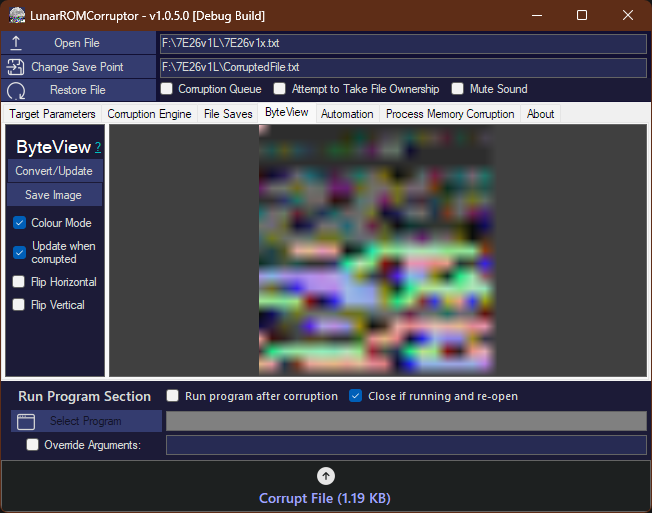
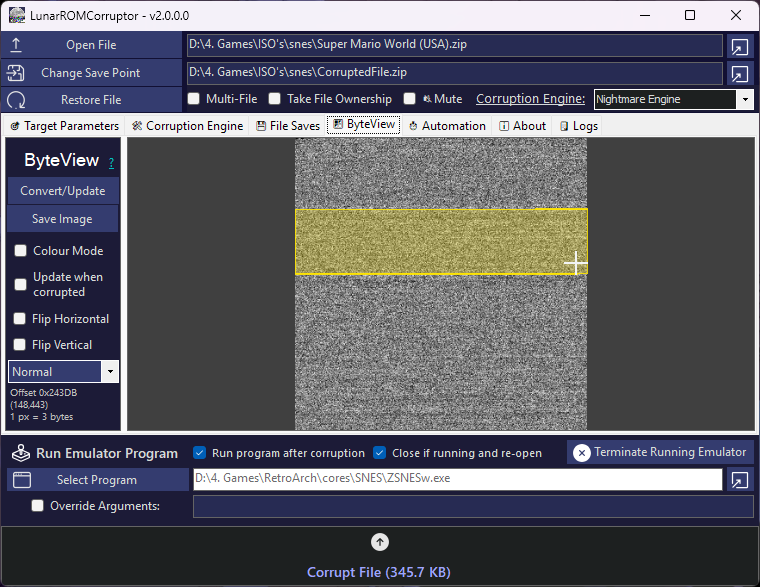
Updated Readme. One more time
Updated images.

diff --git a/LunarROMCorruptor/Forms/MainCorruptionForm.Designer.cs b/LunarROMCorruptor/Forms/MainCorruptionForm.Designer.cs
@@ -90,9 +90,9 @@
             ByteViewHelp = new LinkLabel();
             byteViewColourChkbox = new CheckBox();
             ByteViewLbl = new Label();
-            ByteViewPictureBox = new PictureBox();
             ByteViewModeComboBox = new ComboBox();
             ByteViewInfoLbl = new Label();
+            ByteViewPictureBox = new PictureBox();
             AutomationPage = new TabPage();
             AutomationLbl = new Label();
             AutoCorruptPanel = new Panel();
@@ -786,21 +786,6 @@
             IntensityTrackbar.Value = 1;
             IntensityTrackbar.Scroll += IntensityTrackbar_Scroll;
             // 
-            // CorruptionHistoryBtn
-            // 
-            CorruptionHistoryBtn.Anchor = AnchorStyles.Bottom | AnchorStyles.Left;
-            CorruptionHistoryBtn.BackColor = Color.FromArgb(52, 60, 111);
-            CorruptionHistoryBtn.FlatAppearance.BorderSize = 0;
-            CorruptionHistoryBtn.FlatStyle = FlatStyle.Flat;
-            CorruptionHistoryBtn.ForeColor = Color.FromArgb(213, 216, 216);
-            CorruptionHistoryBtn.Location = new Point(384, 257);
-            CorruptionHistoryBtn.Margin = new Padding(2, 3, 2, 3);
-            CorruptionHistoryBtn.Name = "CorruptionHistoryBtn";
-            CorruptionHistoryBtn.Size = new Size(134, 27);
-            CorruptionHistoryBtn.TabIndex = 180;
-            CorruptionHistoryBtn.Text = "Corruption History ▾";
-            CorruptionHistoryBtn.UseVisualStyleBackColor = false;
-            // 
             // StashBytesList
             // 
             StashBytesList.Anchor = AnchorStyles.Top | AnchorStyles.Bottom | AnchorStyles.Left;
@@ -816,6 +801,21 @@
             StashBytesList.Name = "StashBytesList";
             StashBytesList.Size = new Size(134, 229);
             StashBytesList.TabIndex = 158;
+            // 
+            // CorruptionHistoryBtn
+            // 
+            CorruptionHistoryBtn.Anchor = AnchorStyles.Bottom | AnchorStyles.Left;
+            CorruptionHistoryBtn.BackColor = Color.FromArgb(52, 60, 111);
+            CorruptionHistoryBtn.FlatAppearance.BorderSize = 0;
+            CorruptionHistoryBtn.FlatStyle = FlatStyle.Flat;
+            CorruptionHistoryBtn.ForeColor = Color.FromArgb(213, 216, 216);
+            CorruptionHistoryBtn.Location = new Point(384, 257);
+            CorruptionHistoryBtn.Margin = new Padding(2, 3, 2, 3);
+            CorruptionHistoryBtn.Name = "CorruptionHistoryBtn";
+            CorruptionHistoryBtn.Size = new Size(134, 27);
+            CorruptionHistoryBtn.TabIndex = 180;
+            CorruptionHistoryBtn.Text = "Corruption History ▾";
+            CorruptionHistoryBtn.UseVisualStyleBackColor = false;
             // 
             // EnableStashSavesChkbox
             // 
@@ -1139,7 +1139,6 @@
             ByteViewModeComboBox.Name = "ByteViewModeComboBox";
             ByteViewModeComboBox.Size = new Size(111, 23);
             ByteViewModeComboBox.TabIndex = 9;
-            ByteViewModeComboBox.SelectedIndex = 0;
             // 
             // ByteViewInfoLbl
             // 

diff --git a/README.md b/README.md
@@ -21,7 +21,7 @@
 LunarROMCorruptor is a advanced tool designed to corrupt binary data through various algorithmic engines. While optimized for ROM hacking, its capabilities extend to **any file format**. Whether you are looking for random bit-flips or complex mathematical interpolation, LunarROMCorruptor provides the precision tools needed for high-quality glitch art.
 
 <div align="center">
-    <img src="https://raw.githubusercontent.com/lloyd99901/LunarROMCorruptor/master/static/images/MainInterface.png" alt="Main Interface Screenshot" width="60%" />
+    <img src="https://raw.githubusercontent.com/DimonByte/LunarROMCorruptor/master/static/images/MainInterface.png" alt="Main Interface Screenshot" width="60%" />
 </div>
 
 ---
@@ -41,6 +41,11 @@ LunarROMCorruptor is a advanced tool designed to corrupt binary data through var
 | **ByteView Targeting** | Drag over the ByteView image to set the Start/End byte to exactly that area of the file. |
 | **Automation** | Automate randomization of intensity, byte ranges, and engine selection. |
 | **Batch Processing** | Drag-and-drop entire folders or multiple files for mass corruption. Every file is restored before each blast and Restore puts all of them back. |
+
+<div align="center">
+    <img src="https://raw.githubusercontent.com/DimonByte/LunarROMCorruptor/master/static/images/CorruptionHistory.png" alt="Example of Corruption History" width="40%" />
+    <img src="https://raw.githubusercontent.com/DimonByte/LunarROMCorruptor/master/static/images/MultiFile.png" alt="Example of Multi File" width="40%" />
+</div>
 
 ---
 
@@ -70,7 +75,7 @@ See [Corruption Engine Settings](#Corruption-Engine-Settings) for detailed setti
 The built-in **ByteView** transforms binary data into a visual image. By mapping byte values to RGB or grayscale pixels, you can observe patterns that are invisible in a standard hex editor. The view updates in real-time as you apply corruption engines.
 
 <div align="center">
-    <img src="https://raw.githubusercontent.com/lloyd99901/LunarROMCorruptor/master/static/images/ByteView.png" alt="ByteView Screenshot" width="50%" />
+    <img src="https://raw.githubusercontent.com/DimonByte/LunarROMCorruptor/master/static/images/ByteView.png" alt="ByteView Screenshot" width="50%" />
 </div>
 
 ---
